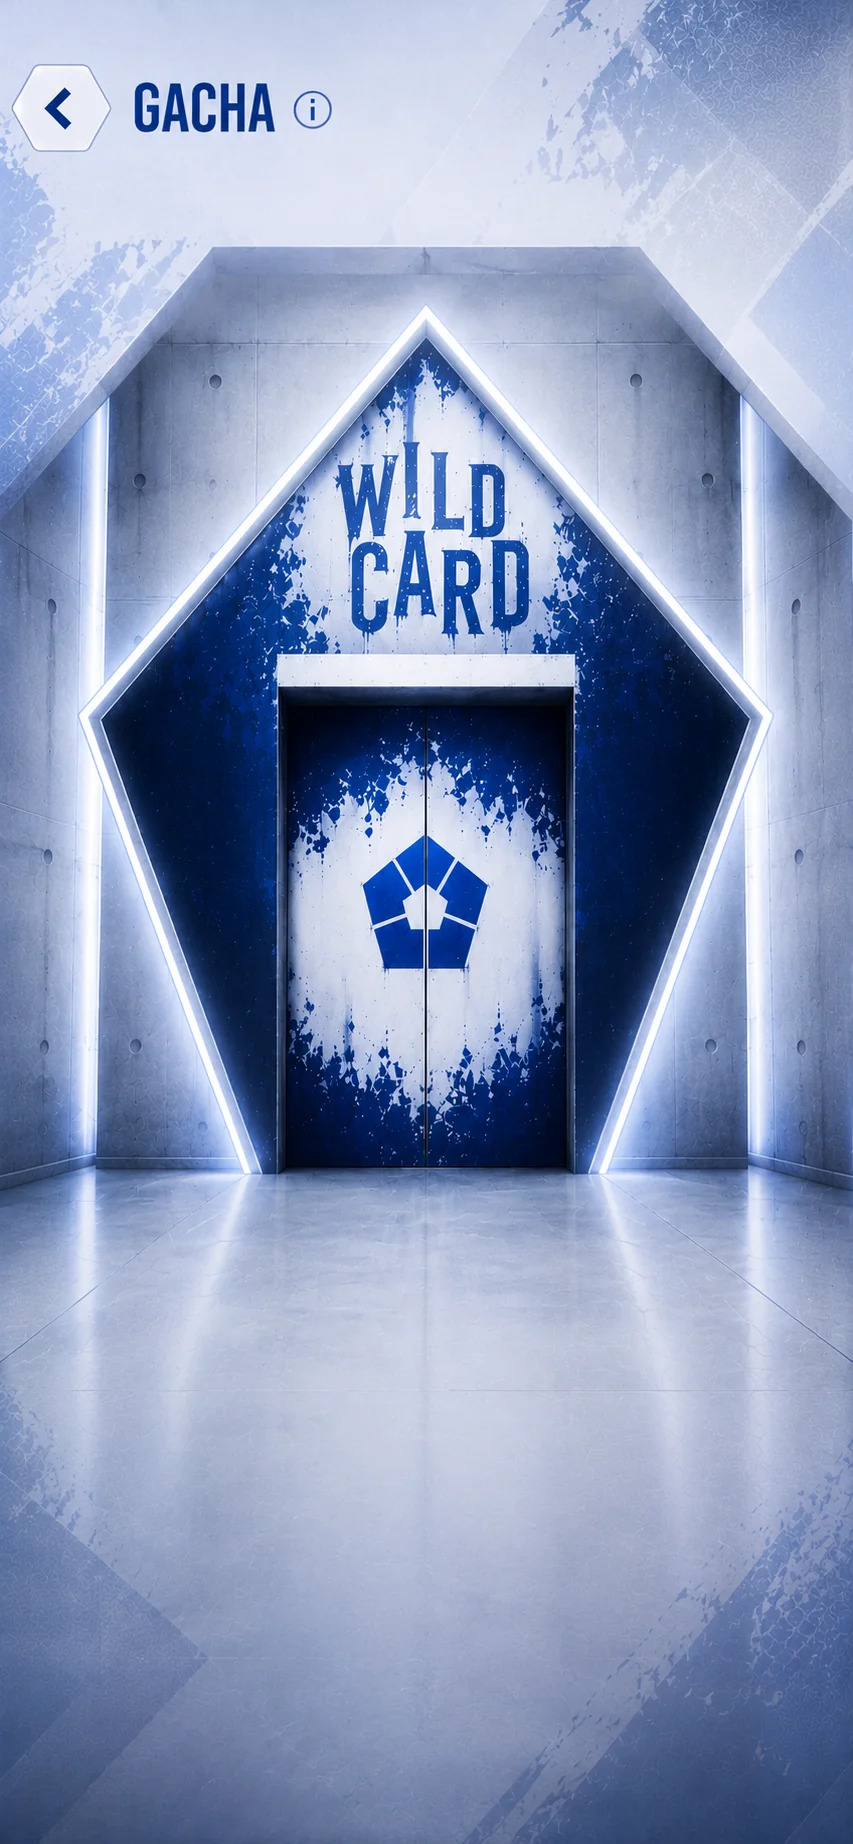
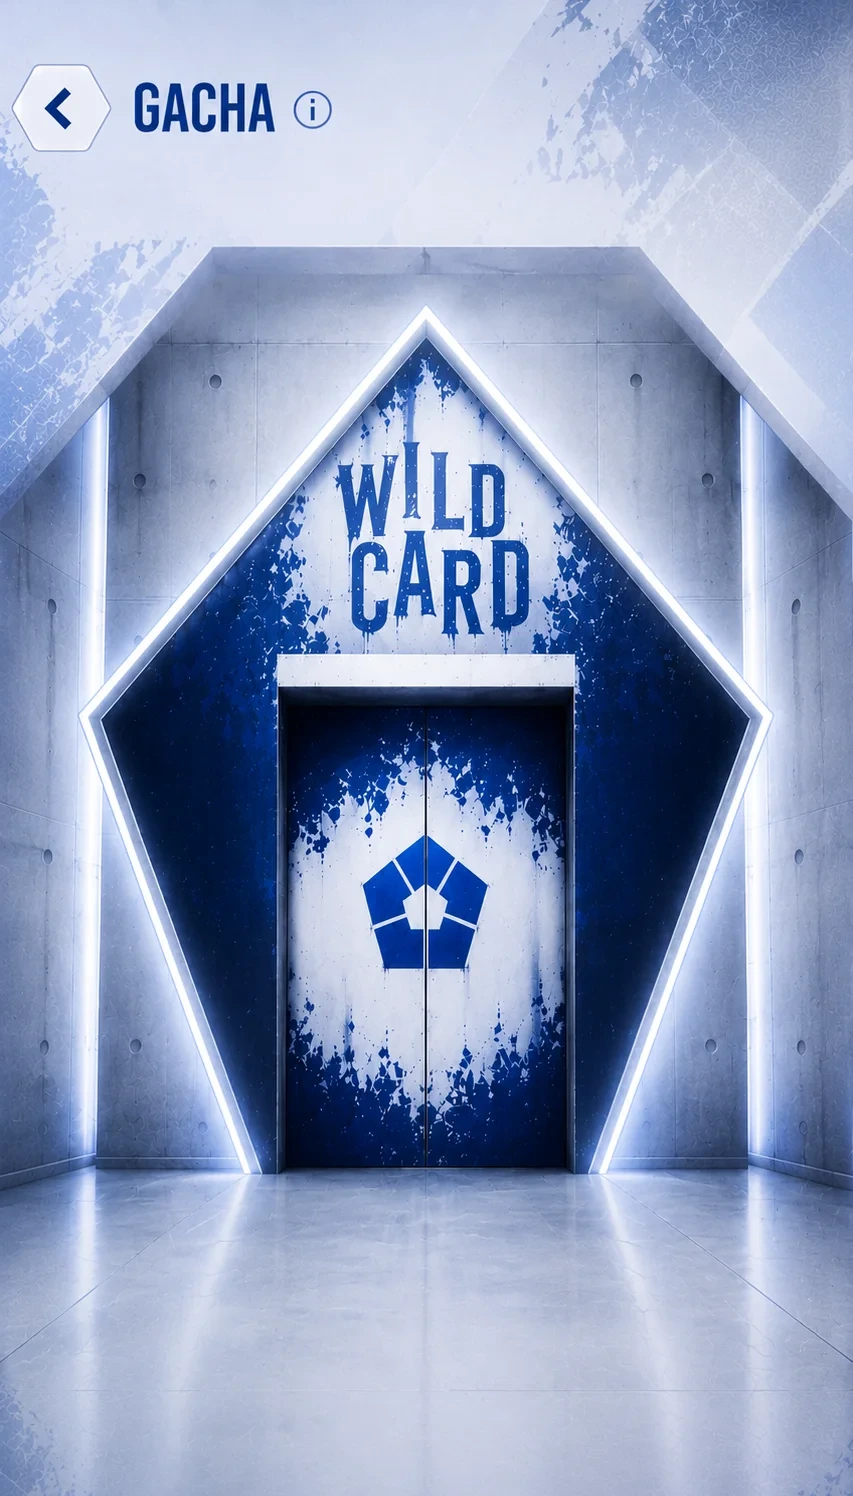
Ensancha el menú de Gacha recortando el suelo vacío bajo la puerta
gacha-fondo.webp: recortados 348px del suelo sin contenido bajo la
puerta (1844 -> 1496 de alto, la puerta y "WILD CARD" quedan intactos),
para que el frame llegue a pantalla completa en móviles más cortos/
anchos (ej. iPhone SE) sin dejar franjas negras a los lados. Ajustados
en consecuencia el aspect-ratio del frame, el top:% de .gacha-content
(mismo punto absoluto bajo la puerta que antes) y el degradado que tapa
el título dibujado en la imagen.

diff --git a/pages/gacha/gacha.css b/pages/gacha/gacha.css
@@ -30,14 +30,17 @@ body{
 
 /* assets/backgrounds/gacha-fondo.webp ENTERA como fondo del frame:
    aspect-ratio mantiene siempre la misma proporción que el PNG
-   (853×1844); width/height:auto + max-width/max-height:100% hacen que
-   el frame se encoja por lo que haga falta sin recortar ni deformar la
+   (853×1496 — recortada del suelo vacío de sobra bajo la puerta, que
+   no tenía contenido, para que el frame llegue más ancho en móviles
+   más cortos/anchos como el iPhone SE sin recortar la puerta ni el
+   rótulo "WILD CARD"); width/height:auto + max-width/max-height:100%
+   hacen que el frame se encoja por lo que haga falta sin deformar la
    imagen — mismo patrón que "Jugar". Header y contenido se posicionan
-   dentro en % medidos sobre el propio PNG. */
+   dentro en % medidos sobre el propio PNG (ver .gacha-content). */
 #gacha-bg-frame{
     position:relative;
-    width:min(100%, calc(100dvh * 853 / 1844));
-    aspect-ratio:853/1844;
+    width:min(100%, calc(100dvh * 853 / 1496));
+    aspect-ratio:853/1496;
     background-image:url("../../assets/backgrounds/gacha-fondo.webp");
     background-size:100% 100%;
     background-repeat:no-repeat;
@@ -56,7 +59,7 @@ body{
     content:"";
     position:absolute;
     top:0; left:0; right:0;
-    height:11%;
+    height:13.6%;
     background:linear-gradient(180deg,
         rgba(204,213,239,1) 0%,
         rgba(204,213,239,1) 71%,
@@ -197,13 +200,14 @@ body{
 }
 
 /* Se superpone en la zona blanca/suelo de la imagen, debajo de la
-   puerta — top:66% medido contra el punto donde termina realmente el
-   marco/neón de la puerta en el PNG (fila ~1190 de 1844 ≈ 64.5%), con
-   margen extra para que la puerta quede completa y despejada.
-   overflow:hidden como red de seguridad. */
+   puerta — top:81.3% medido contra el punto donde termina realmente el
+   marco/neón de la puerta en el PNG (fila ~1217 de 1496, tras el
+   recorte del suelo vacío — antes era 66% de 1844, misma fila en
+   valor absoluto), con margen extra para que la puerta quede completa
+   y despejada. overflow:hidden como red de seguridad. */
 .gacha-content{
     position:absolute;
-    top:66%;
+    top:81.3%;
     left:0;
     right:0;
     bottom:0;
